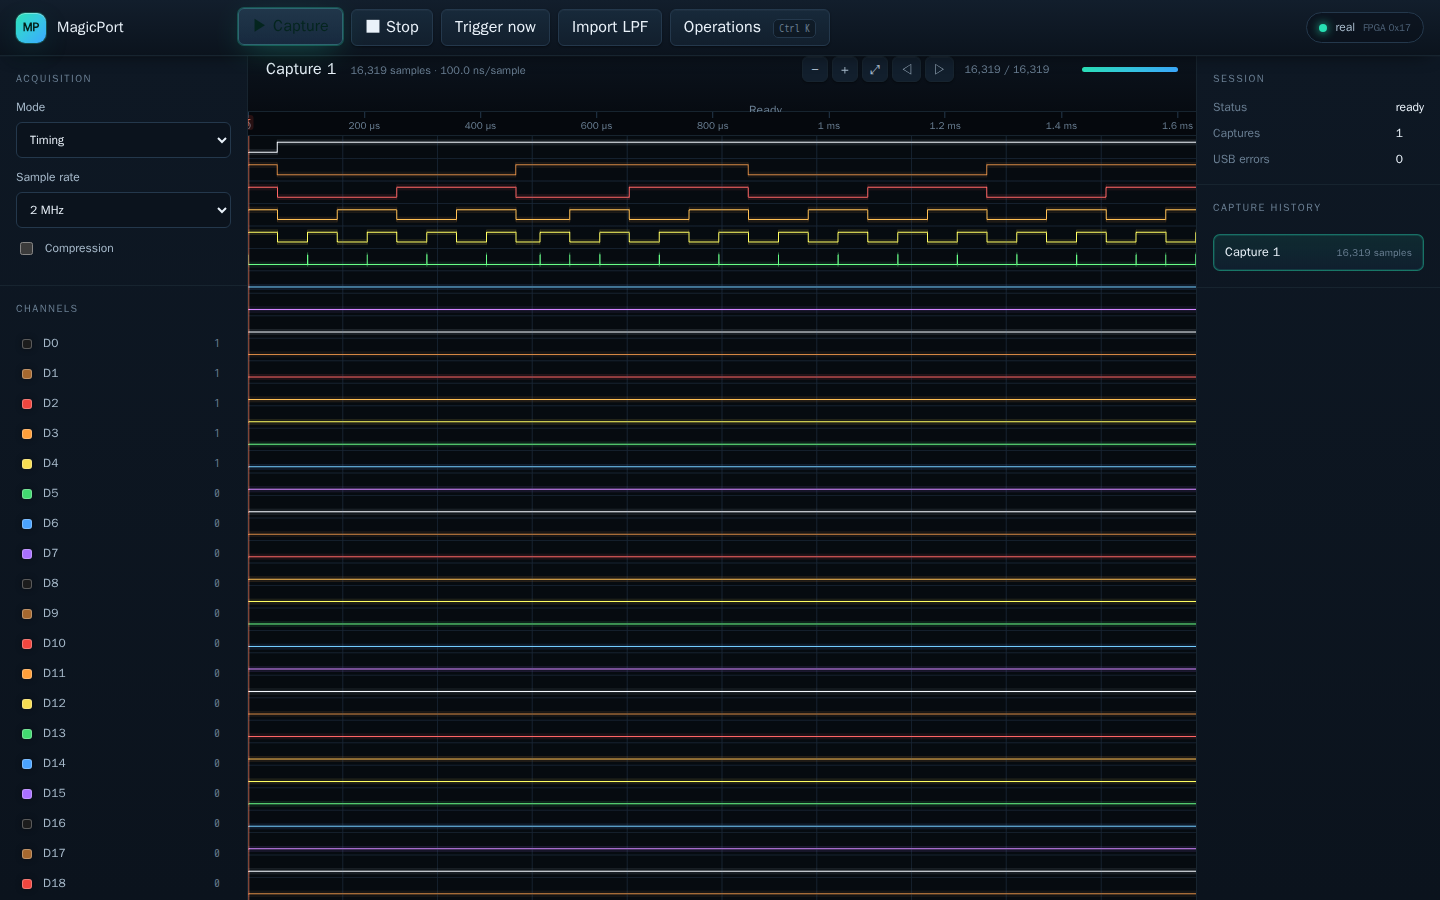
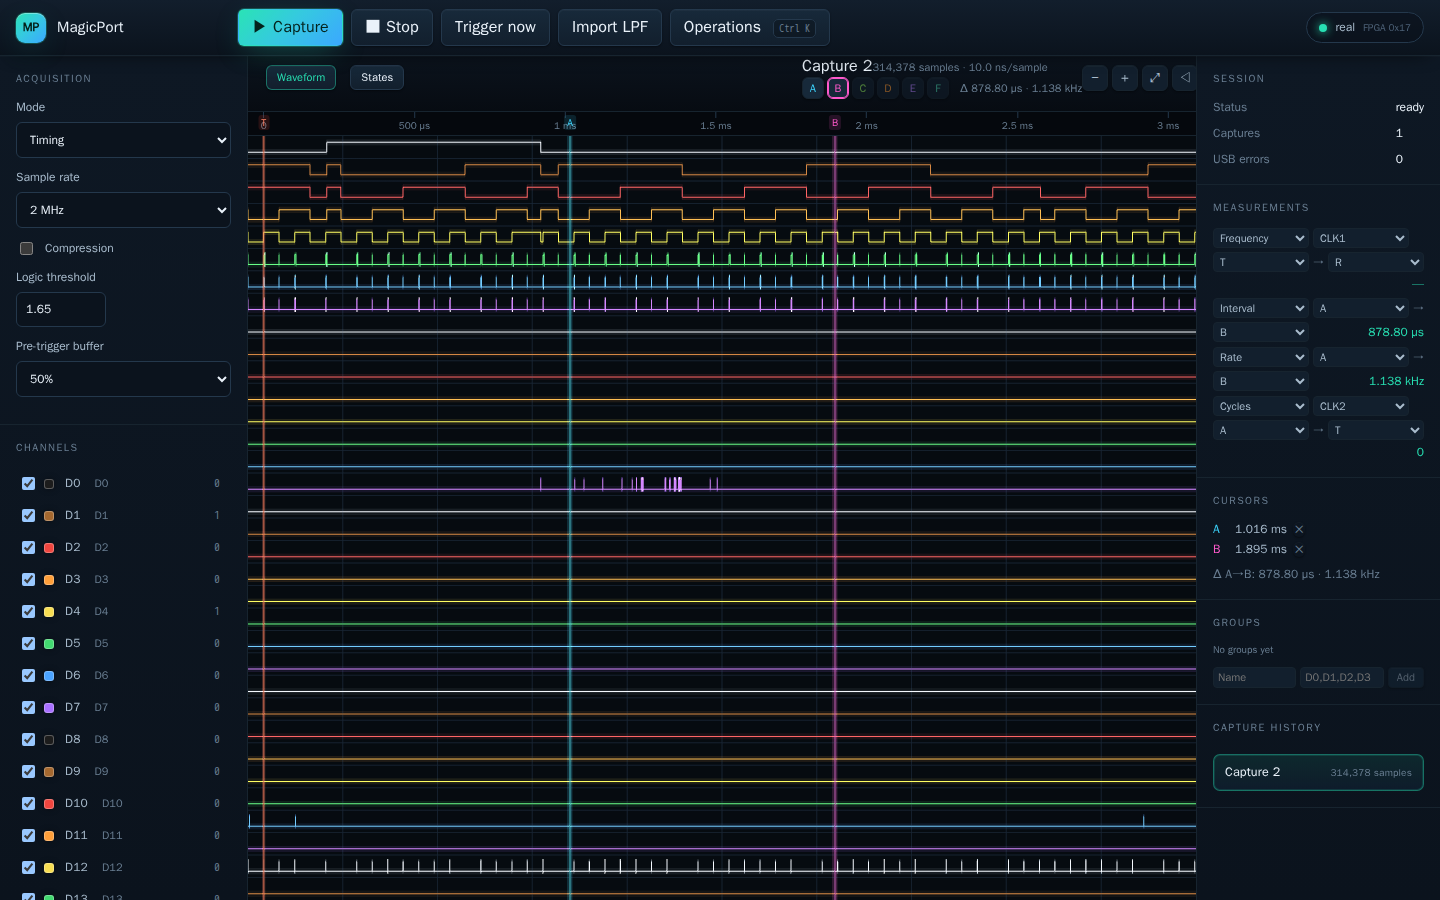
docs: refresh the dashboard screenshot for the full UI
Recapture the screenshot now that the timeline has the ruler, zoom and
edge controls, measurement cursors, status-bar measurements, threshold
and pre-trigger controls, channel visibility and names, and the
state-list toggle.

diff --git a/README.md b/README.md
@@ -11,7 +11,7 @@ configures the device, runs acquisitions, reconstructs the captured samples, and
 decodes common bus protocols — all exposed through one operation set that is
 identical across the web UI, REST, and MCP.
 
-![The MagicPort web dashboard displaying a live logic-analyzer capture across all 34 channels.](docs/screenshot.png)
+![The MagicPort web dashboard on a live capture: the time ruler, measurement cursors and their delta, the status-bar measurements, and per-channel controls across all 34 channels.](docs/screenshot.png)
 
 ## Highlights
 
